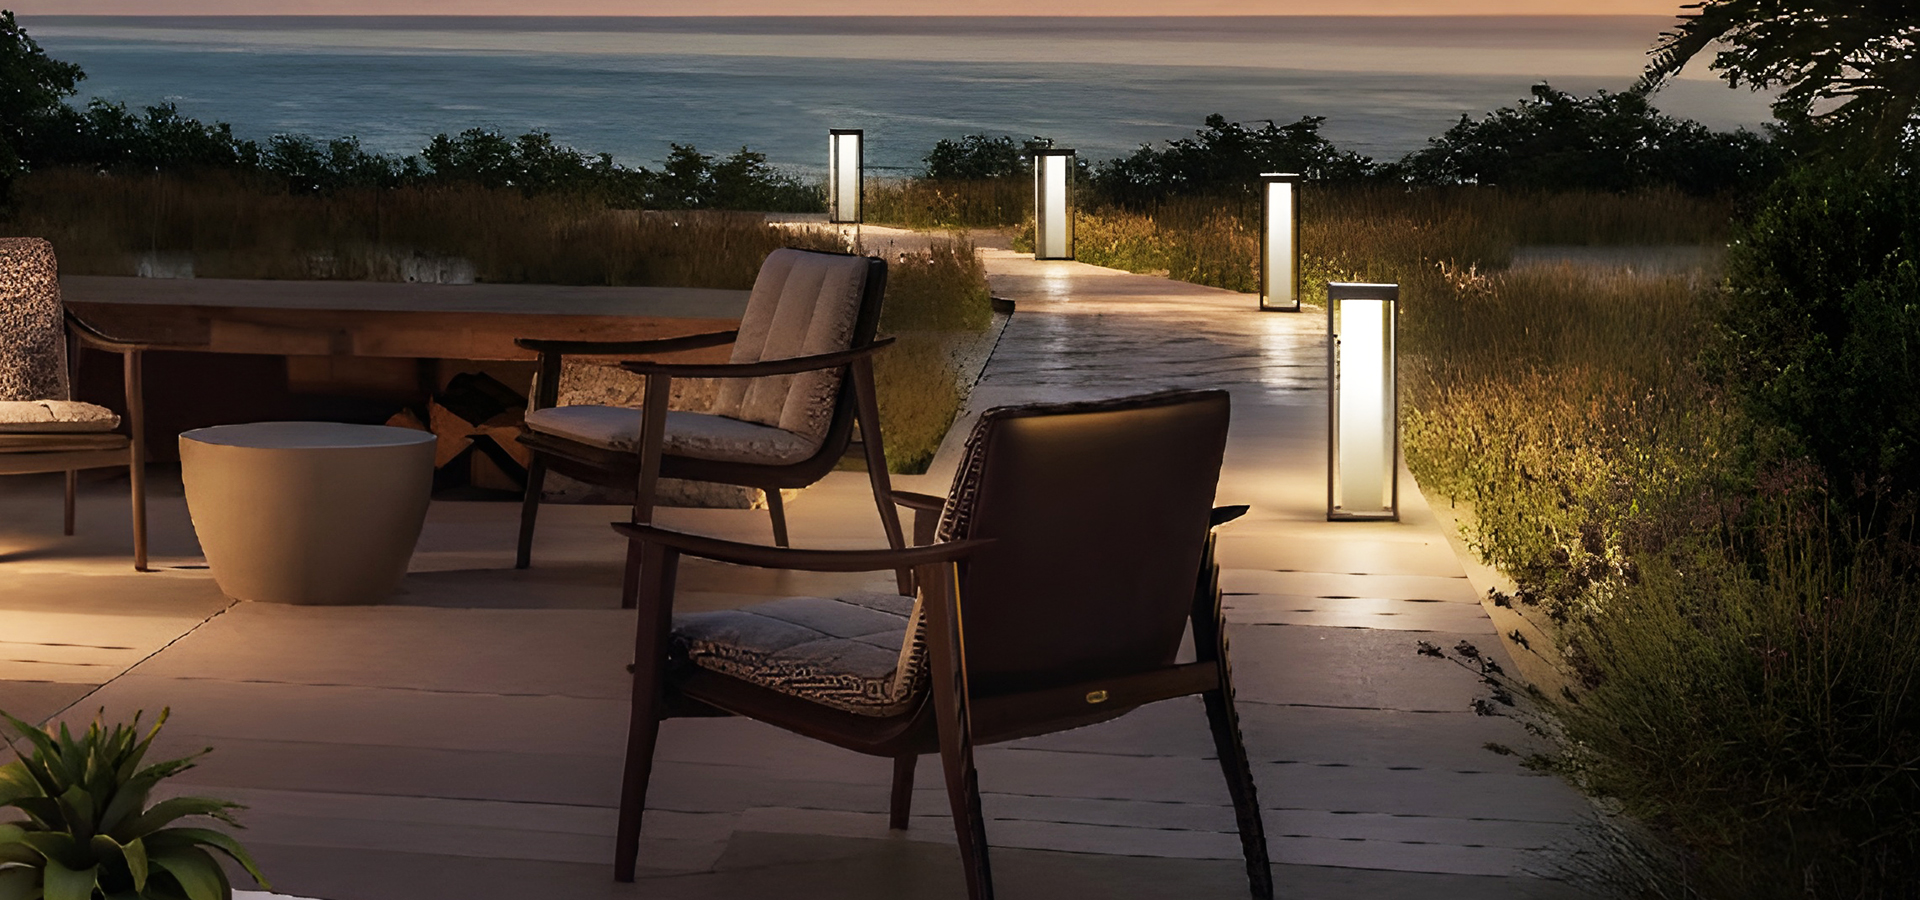
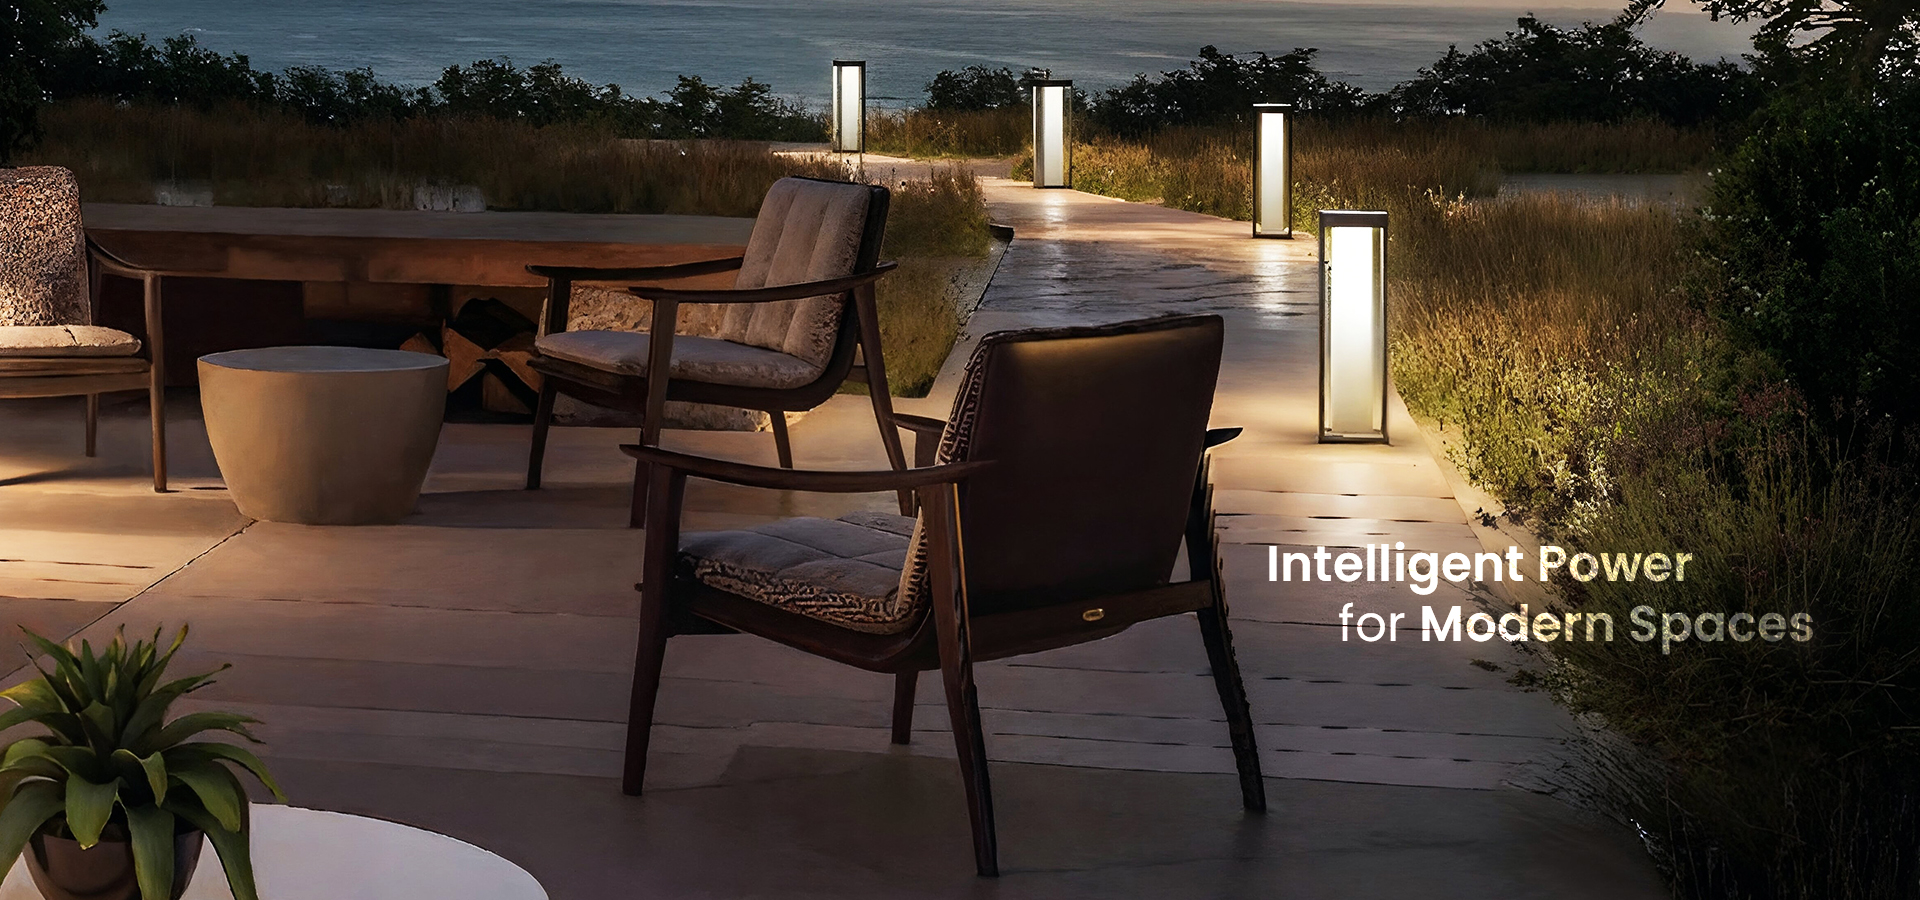
change product images

diff --git a/components/sections/product/Hero.tsx b/components/sections/product/Hero.tsx
@@ -3,14 +3,14 @@ import heroImage from '@/public/images/home/home-hero.png'; // Make sure this pa
 
 export default function Hero({ heroBannerImage }: { heroBannerImage: string }) {
   return (
-    <section className="relative w-full h-[50vh] sm:h-[60vh] lg:h-[80vh] min-h-[400px] max-h-[900px] flex items-center justify-center overflow-hidden">
+    <section className="relative w-full h-[50vh] sm:h-[60vh] lg:h-[90vh] min-h-[400px] max-h-[900px] flex items-center justify-center overflow-hidden">
       <Image
         src={heroBannerImage || heroImage}
         alt="Collection Hero"
         fill
         priority
         sizes="100vw"
-        className="object-cover object-top z-0 transition-transform duration-1000 hover:scale-105 will-change-transform" 
+        className="object-cover object-center z-0 transition-transform duration-1000 hover:scale-105 will-change-transform" 
         style={{ transform: 'translate3d(0, 0, 0)', backfaceVisibility: 'hidden' }}
       />
     </section>

diff --git a/app/(marketing)/product/[collection]/page.tsx b/app/(marketing)/product/[collection]/page.tsx
@@ -76,7 +76,7 @@ const COLLECTION_HERO_DATA = {
     name: "Volaris Collection",
     image: "/images/home/product/Volaris.jpeg",
   },
-};
+}; 
 
 console.log("products", collection)
 const heroData = COLLECTION_HERO_DATA[collection as keyof typeof COLLECTION_HERO_DATA];
